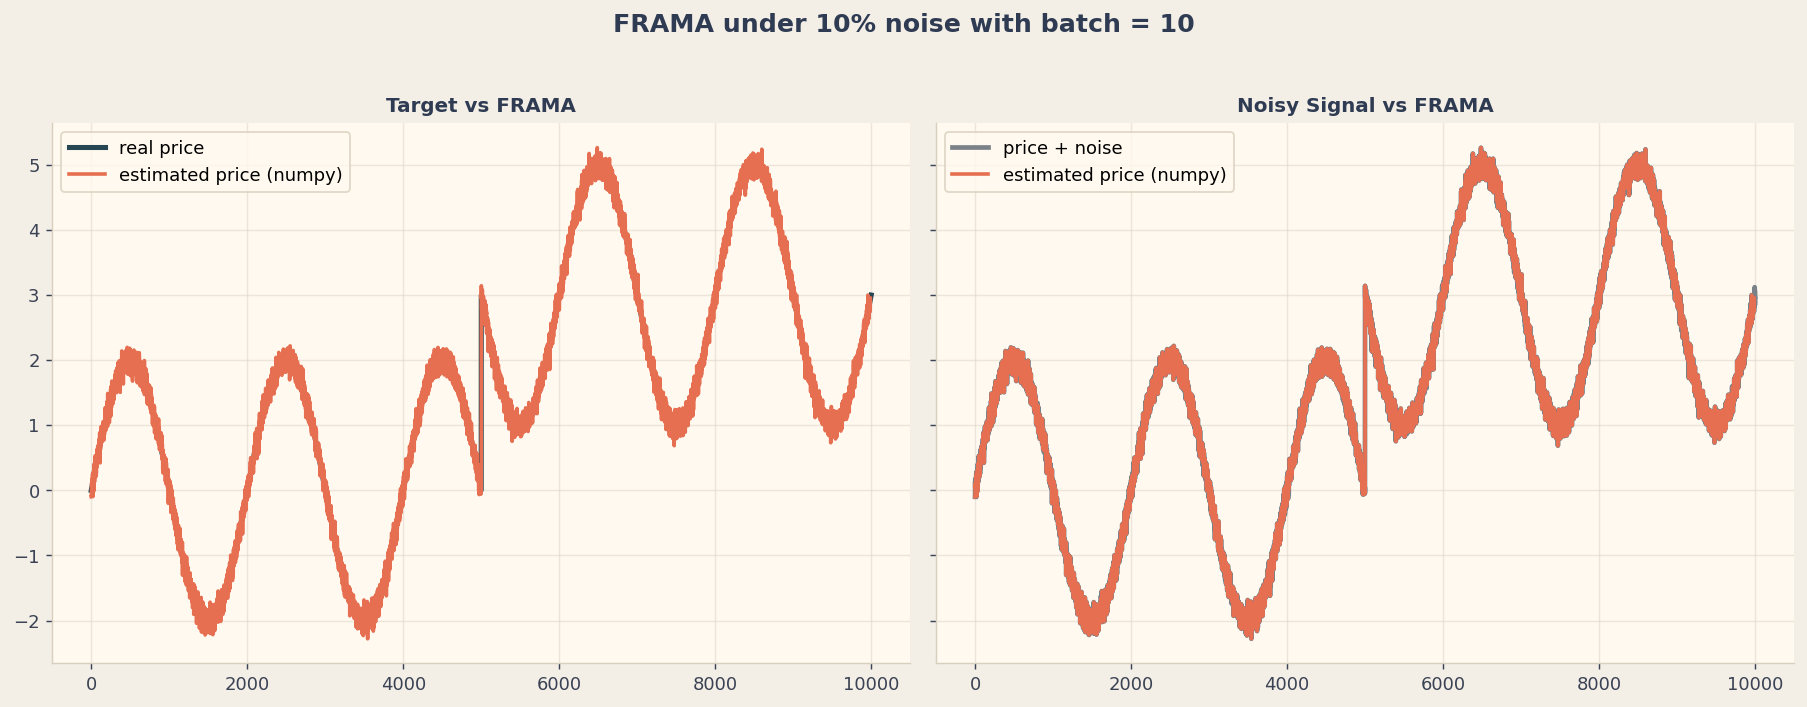
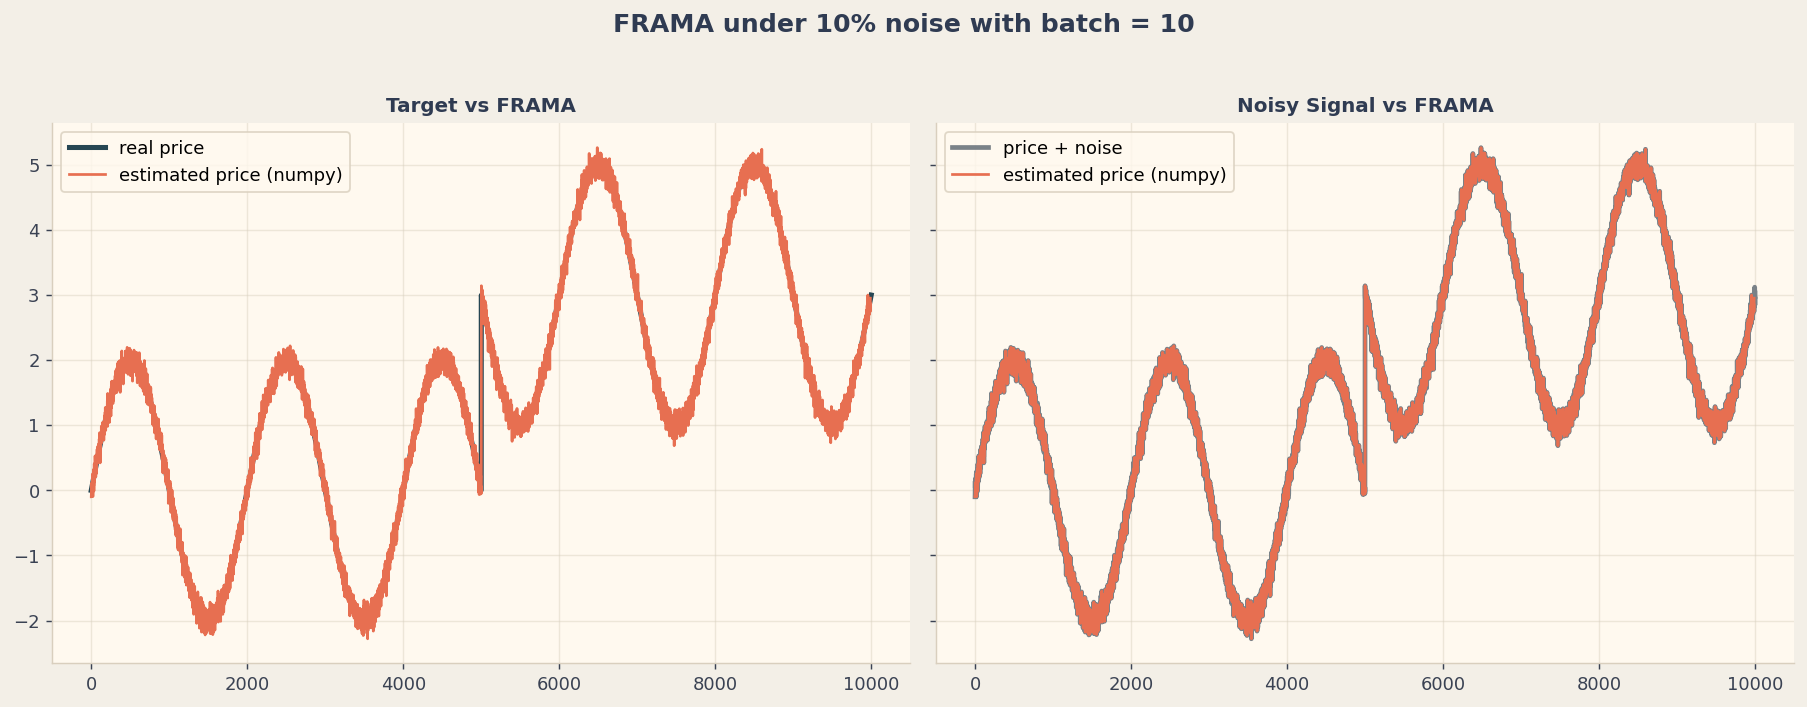
Introducing example of using frama over yfinance GLD index

Changed region(s): [[0.4029, 0.2489, 0.4339, 0.2801]]

diff --git a/src/frama_gld_use_case.py b/src/frama_gld_use_case.py
@@ -1,0 +1,205 @@
+# Copyright (c) 2017 Ioannis Athanasiadis(supernlogn)
+#
+# Permission is hereby granted, free of charge, to any person obtaining a copy
+# of this software and associated documentation files (the "Software"), to deal
+# in the Software without restriction, including without limitation the rights
+# to use, copy, modify, merge, publish, distribute, sublicense, and/or sell
+# copies of the Software, and to permit persons to whom the Software is
+# furnished to do so, subject to the following conditions:
+
+# The above copyright notice and this permission notice shall be included in all
+# copies or substantial portions of the Software.
+
+# THE SOFTWARE IS PROVIDED "AS IS", WITHOUT WARRANTY OF ANY KIND, EXPRESS OR
+# IMPLIED, INCLUDING BUT NOT LIMITED TO THE WARRANTIES OF MERCHANTABILITY,
+# FITNESS FOR A PARTICULAR PURPOSE AND NONINFRINGEMENT. IN NO EVENT SHALL THE
+# AUTHORS OR COPYRIGHT HOLDERS BE LIABLE FOR ANY CLAIM, DAMAGES OR OTHER
+# LIABILITY, WHETHER IN AN ACTION OF CONTRACT, TORT OR OTHERWISE, ARISING FROM,
+# OUT OF OR IN CONNECTION WITH THE SOFTWARE OR THE USE OR OTHER DEALINGS IN THE
+# SOFTWARE.
+"""
+FRAMA comparison use case on GLD (Gold Index) data from yfinance.
+"""
+import numpy as np
+import importlib
+from time import perf_counter
+
+from frama_performance import frama_perf_torch, frama_perf
+
+
+def fetch_gld_data(period='1y'):
+    """Fetch GLD (gold index) closing prices from yfinance."""
+    try:
+        import yfinance as yf
+    except ImportError as exc:
+        raise ImportError(
+            'frama_gld_use_case requires yfinance. Install it with pip install yfinance'
+        ) from exc
+
+    gld = yf.download('GLD', period=period, progress=False)
+    prices = np.asarray(gld['Close'].to_numpy(dtype=float).reshape(-1), dtype=float)
+    dates = gld.index.to_numpy()
+    return prices, dates
+
+
+def apply_frama_numpy(prices, batch=20):
+    """Apply FRAMA using NumPy version."""
+    filt_numpy = frama_perf(prices, batch)
+    return np.asarray(filt_numpy, dtype=float)
+
+
+def apply_frama_torch(prices, batch=20):
+    """Apply FRAMA using PyTorch version."""
+    try:
+        # Copy to make sure we pass a writable NumPy array to torch.as_tensor.
+        filt_torch = frama_perf_torch(np.array(prices, copy=True), batch)
+    except ImportError:
+        print('PyTorch is not installed. Cannot run frama_perf_torch.')
+        return None
+    return filt_torch.detach().cpu().numpy()
+
+
+def compare_outputs(filt_numpy, filt_torch):
+    """Compute quality metrics between NumPy and PyTorch FRAMA outputs."""
+    min_len = min(len(filt_numpy), len(filt_torch))
+    np_ref = np.asarray(filt_numpy[:min_len], dtype=float)
+    torch_ref = np.asarray(filt_torch[:min_len], dtype=float)
+    diff = torch_ref - np_ref
+    mae = float(np.mean(np.abs(diff)))
+    rmse = float(np.sqrt(np.mean(diff ** 2)))
+    max_abs = float(np.max(np.abs(diff)))
+    return {
+        'numpy': np_ref,
+        'torch': torch_ref,
+        'diff': diff,
+        'mae': mae,
+        'rmse': rmse,
+        'max_abs': max_abs,
+    }
+
+
+def plot_gld_results(prices, filt_numpy, filt_torch, dates, batch, stats, savePlotTo=None):
+    """Plot GLD prices and NumPy/PyTorch FRAMA outputs."""
+    try:
+        plt = importlib.import_module('matplotlib.pyplot')
+    except ImportError:
+        print('matplotlib is not installed. Skipping plot output.')
+        return
+
+    palette = {
+        'figure_bg': '#f3efe7',
+        'axes_bg': '#fff9ef',
+        'title': '#2f3b52',
+        'text': '#3a4253',
+        'grid': '#d9cfbe',
+        'price': '#264653',
+        'numpy': '#e76f51',
+        'torch': '#2a9d8f',
+        'diff': '#8d5a97',
+    }
+
+    fig, (ax1, ax2) = plt.subplots(
+        2,
+        1,
+        figsize=(14, 8),
+        dpi=130,
+        facecolor=palette['figure_bg'],
+        gridspec_kw={'height_ratios': [3, 1]},
+        sharex=True,
+    )
+
+    for ax in (ax1, ax2):
+        ax.set_facecolor(palette['axes_bg'])
+        ax.grid(True, color=palette['grid'], alpha=0.45, linewidth=0.8)
+        ax.spines['top'].set_visible(False)
+        ax.spines['right'].set_visible(False)
+        ax.spines['left'].set_color(palette['grid'])
+        ax.spines['bottom'].set_color(palette['grid'])
+        ax.tick_params(colors=palette['text'])
+
+    min_len = min(len(stats['numpy']), len(stats['torch']))
+    x_vals = np.arange(min_len)
+    # FRAMA output indices start at the beginning of the input series.
+    aligned_prices = prices[:min_len]
+    aligned_dates = dates[:min_len]
+
+    ax1.plot(x_vals, aligned_prices, label='GLD closing price', linewidth=2.4, color=palette['price'], alpha=0.7)
+    ax1.plot(x_vals, stats['numpy'], label='FRAMA (NumPy)', linewidth=2.0, color=palette['numpy'])
+    ax1.plot(x_vals, stats['torch'], label='FRAMA (PyTorch)', linewidth=2.0, linestyle='--', color=palette['torch'])
+    ax1.set_ylabel('Price ($)', color=palette['text'])
+    ax1.set_title(
+        f'GLD FRAMA Comparison (batch={batch}) | MAE={stats["mae"]:.6f}, RMSE={stats["rmse"]:.6f}',
+        color=palette['title'],
+        fontsize=13,
+        fontweight='bold',
+    )
+    ax1.legend(frameon=True, facecolor=palette['axes_bg'], edgecolor=palette['grid'], loc='best')
+
+    ax2.plot(x_vals, stats['diff'], label='PyTorch - NumPy', linewidth=1.8, color=palette['diff'])
+    ax2.axhline(0.0, color=palette['grid'], linewidth=1.0)
+    ax2.set_ylabel('Diff', color=palette['text'])
+    ax2.set_xlabel('Trading Days', color=palette['text'])
+    ax2.legend(frameon=True, facecolor=palette['axes_bg'], edgecolor=palette['grid'], loc='best')
+
+    # Show first/last date in x tick labels for context.
+    if len(aligned_dates) > 1:
+        tick_pos = np.linspace(0, len(aligned_dates) - 1, 6, dtype=int)
+        tick_labels = [str(aligned_dates[i])[:10] for i in tick_pos]
+        ax2.set_xticks(tick_pos)
+        ax2.set_xticklabels(tick_labels, rotation=20, ha='right')
+
+    fig.tight_layout()
+    if savePlotTo is not None:
+        plt.savefig(savePlotTo, facecolor=fig.get_facecolor(), bbox_inches='tight')
+        print(f'Plot saved to {savePlotTo}')
+    else:
+        plt.show()
+
+
+def main():
+    """Fetch GLD data, compare FRAMA implementations, and generate plot."""
+    print('Fetching GLD data from yfinance...')
+    prices, dates = fetch_gld_data(period='1y')
+    print(f'Fetched {len(prices)} trading days of GLD data.')
+
+    batch = 10
+    print(f'Applying FRAMA (NumPy and PyTorch) with batch={batch}...')
+
+    t0 = perf_counter()
+    filt_numpy = apply_frama_numpy(prices, batch=batch)
+    numpy_ms = (perf_counter() - t0) * 1000.0
+
+    t0 = perf_counter()
+    filt_torch = apply_frama_torch(prices, batch=batch)
+    torch_ms = (perf_counter() - t0) * 1000.0
+
+    if filt_torch is not None:
+        stats = compare_outputs(filt_numpy, filt_torch)
+        speed_ratio = numpy_ms / torch_ms if torch_ms > 0 else float('inf')
+
+        print('Comparison metrics:')
+        print(f"  MAE      : {stats['mae']:.10f}")
+        print(f"  RMSE     : {stats['rmse']:.10f}")
+        print(f"  Max |diff|: {stats['max_abs']:.10f}")
+        print('Runtime (single run):')
+        print(f'  NumPy   : {numpy_ms:.3f} ms')
+        print(f'  PyTorch : {torch_ms:.3f} ms')
+        print(f'  Speed ratio (NumPy/PyTorch): {speed_ratio:.3f}x')
+
+        print('Generating plot...')
+        plot_gld_results(
+            prices,
+            filt_numpy,
+            filt_torch,
+            dates,
+            batch,
+            stats,
+            savePlotTo='images/gld_frama_compare.png',
+        )
+        print('Done!')
+    else:
+        print('FRAMA filtering failed. Exiting.')
+
+
+if __name__ == '__main__':
+    main()

diff --git a/src/frama_use_case.py b/src/frama_use_case.py
@@ -20,7 +20,7 @@
 import numpy as np
 import importlib
 
-from frama_performance import fram_perf, frama_perf_torch
+from frama_performance import frama_perf, frama_perf_torch
 
 
 def create_input(length=10000, noise_scale=0.2, seed=123):
@@ -36,7 +36,7 @@ def create_input(length=10000, noise_scale=0.2, seed=123):
 
 def run_numpy_example(input_price, batch):
     """Usage example for fram_perf (NumPy implementation alias)."""
-    return fram_perf(input_price, batch)
+    return frama_perf(input_price, batch)
 
 
 def run_torch_example(input_price, batch):
@@ -88,7 +88,7 @@ def plot_results(price, input_price, filt_numpy, filt_torch, noise_scale, batch,
         ax.tick_params(colors=palette['text'])
 
     ax1.plot(price, label='real price', linewidth=2.8, color=palette['price'])
-    ax1.plot(filt_numpy, label='estimated price (numpy)', linewidth=2.0, color=palette['numpy'])
+    ax1.plot(filt_numpy, label='estimated price (numpy)', linewidth=1.5, color=palette['numpy'])
     if filt_torch is not None:
         ax1.plot(
             filt_torch,
@@ -101,7 +101,7 @@ def plot_results(price, input_price, filt_numpy, filt_torch, noise_scale, batch,
     ax1.legend(frameon=True, facecolor=palette['axes_bg'], edgecolor=palette['grid'])
 
     ax2.plot(input_price, label='price + noise', linewidth=2.6, color=palette['input'], alpha=0.9)
-    ax2.plot(filt_numpy, label='estimated price (numpy)', linewidth=2.0, color=palette['numpy'])
+    ax2.plot(filt_numpy, label='estimated price (numpy)', linewidth=1.5, color=palette['numpy'])
     if filt_torch is not None:
         ax2.plot(
             filt_torch,
@@ -126,7 +126,7 @@ def plot_results(price, input_price, filt_numpy, filt_torch, noise_scale, batch,
         plt.show()
 
 def createPlots():
-    batch = 10
+    batch = 20
     for noise_scale in [0.1, 0.2, 0.5]:
         price, input_price = create_input(length=10000, noise_scale=noise_scale)
         filt_numpy = run_numpy_example(input_price, batch)

diff --git a/src/frama_performance.py b/src/frama_performance.py
@@ -22,7 +22,7 @@
  in numpy and utilizing it for
  performance.
 """
-__all__ = ['frama_numpy_perf', 'fram_perf', 'frama_perf_torch']
+__all__ = ['frama_numpy_perf', 'frama_perf', 'frama_perf_torch']
 
 import numpy as np
 
@@ -69,7 +69,7 @@ def frama_numpy_perf(InputPrice, batch):
     return Filt
 
 
-def fram_perf(InputPrice, batch):
+def frama_perf(InputPrice, batch):
     """Backward-compatible alias for frama_perf."""
     return frama_numpy_perf(InputPrice, batch)
 
@@ -117,7 +117,8 @@ def frama_perf_torch(InputPrice, batch, device=None, dtype=None):
     Dimen_indices = (N1 > 0) & (N2 > 0) & (N3 > 0)
     lg2_inv = 1.0 / torch.log2(torch.tensor(2.0, device=x.device, dtype=x.dtype))
     d = (torch.log2(N1 + N2) - torch.log2(N3)) * lg2_inv
-    Dimen[Dimen_indices] = d[Dimen_indices]
+    # Dimen[Dimen_indices] = d[Dimen_indices]
+    Dimen = torch.where(Dimen_indices, d, torch.zeros_like(N1))
 
     # calculate the filter factor
     alpha = torch.exp(-4.6 * (Dimen - 1))

diff --git a/readme.md b/readme.md
@@ -38,6 +38,23 @@ This will:
     - `images/frama_plot_batch_50.png`
     - `images/frama_plot_batch_100.png`
 
+## Real Market Data Use Case
+
+To demonstrate FRAMA on real market data, you can use the GLD (Gold Index) use case:
+
+```bash
+pip install yfinance
+python src/frama_gld_use_case.py
+```
+
+This will:
+- Fetch 1 year of GLD historical data from yfinance
+- Apply both `frama_perf` (NumPy) and `frama_perf_torch` (PyTorch)
+- Print comparison metrics (MAE, RMSE, max absolute difference) and runtime
+- Generate a comparison plot at `images/gld_frama_compare.png`
+
+The script aligns FRAMA and price on the same start index so visual lag reflects the filter behavior, not plotting offset.
+
 
 ## Explanation
 To present the inside workings we will use a top-down approach.
@@ -78,7 +95,9 @@ data points inside them.
 Now, if you go from down up it will result in the code inside `frama_educative.py`.
 
 If still not satisfied from the explanation check the code and the References.
-## Results Galery
+## Results Gallery
+
+![GLD FRAMA Comparison](/images/gld_frama_compare.png)
 
 ![First example](/images/frama_plot_noise_0.5.png)
 
@@ -89,6 +108,7 @@ If still not satisfied from the explanation check the code and the References.
 ![Fourth example](/images/frama_plot_batch_10.png)
 
 ![Fifth example](/images/frama_plot_batch_100.png)
+
 
 Feel free to send me your own examples! Thanks!
 
